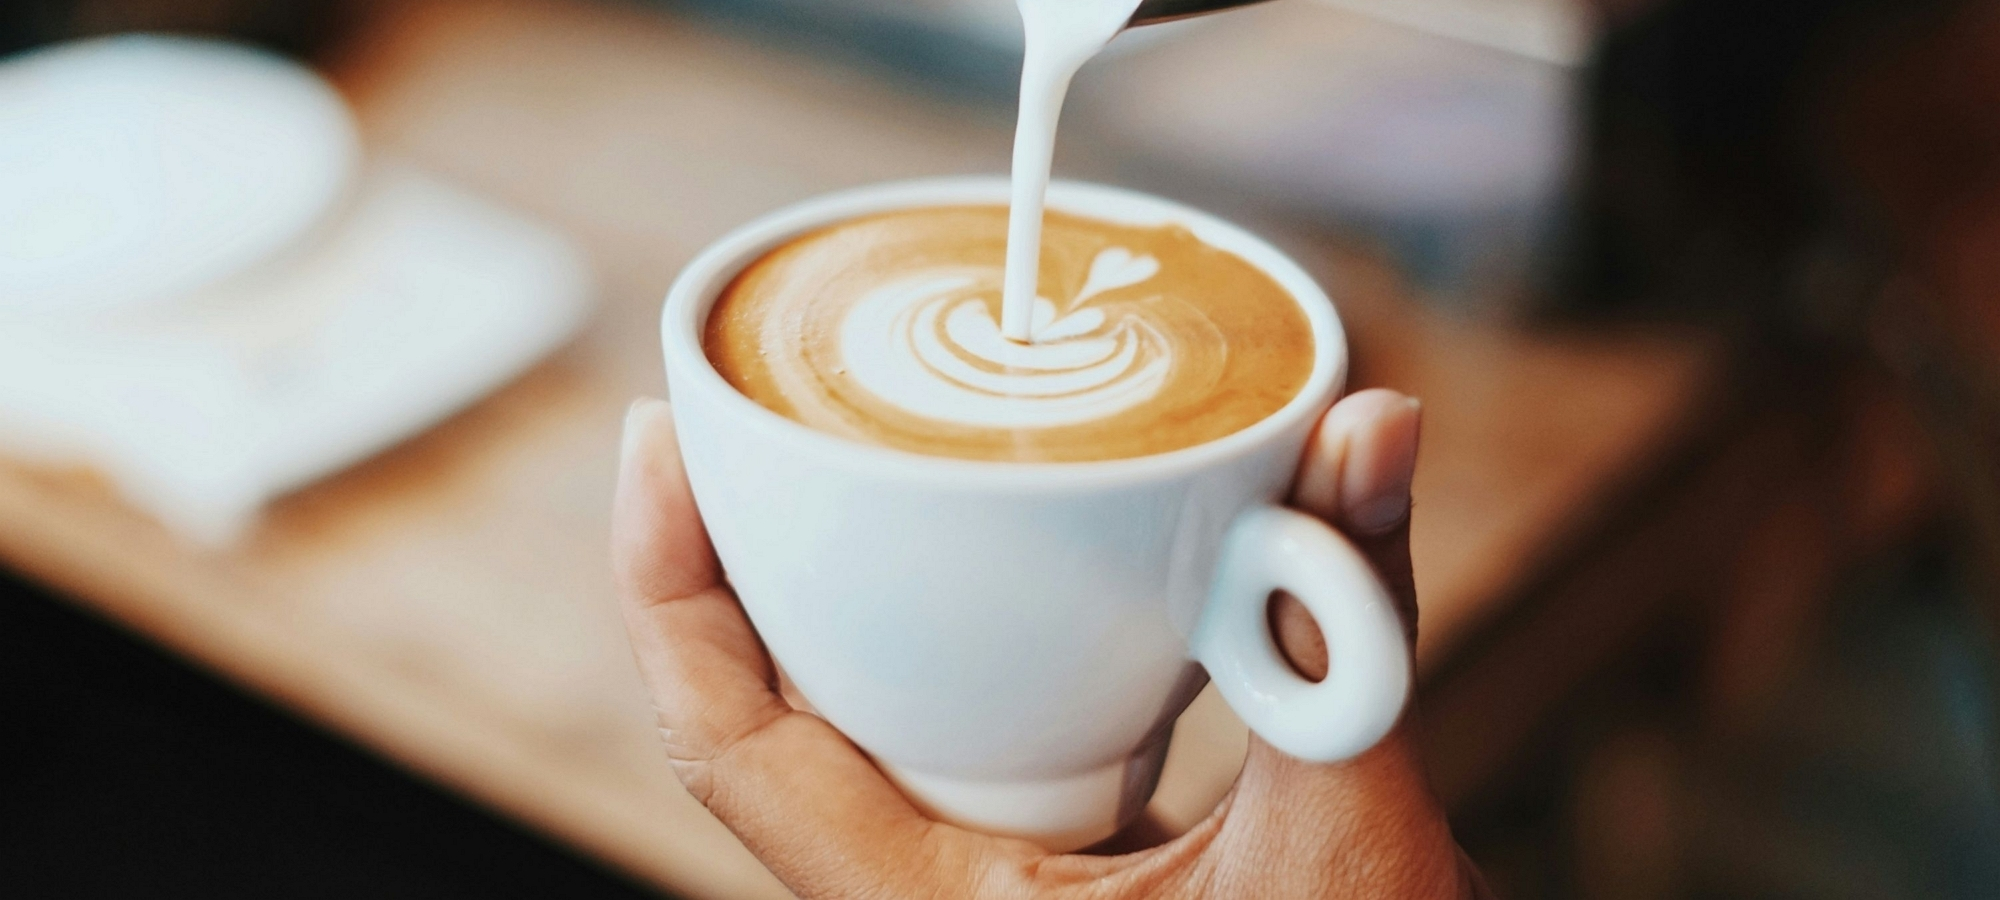
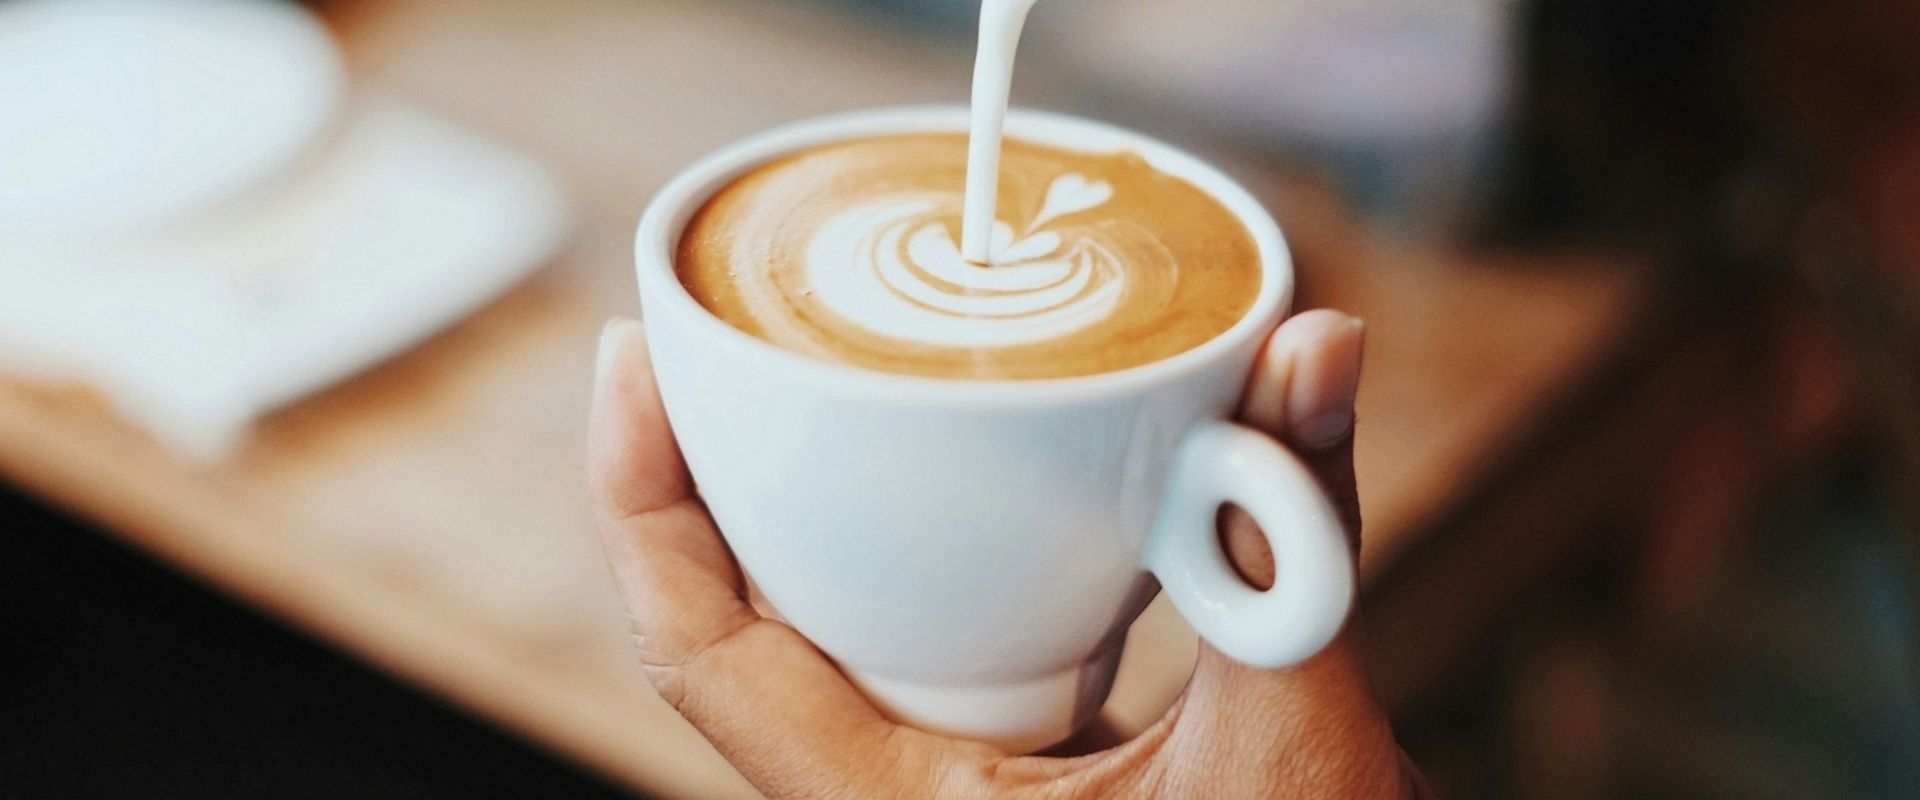
修改首頁大圖區

diff --git a/src/components/front/SlideShow.vue b/src/components/front/SlideShow.vue
@@ -1,35 +1,39 @@
 <template>
   <div
     id="myCarousel"
-    class="carousel slide carousel-fade fadeIn"
+    class="carousel slide carousel-fade fadeIn position-absolute top-0 start-0"
     data-bs-ride="carousel"
     ref="carouselEl"
     style="overflow: hidden"
   >
     <div class="carousel-inner extend-box">
-      <div class="carousel-item position-relative active">
-        <span class="position-absolute vertical-word text-white fw-bold text-shadow">
-          一份工作，靠咖啡因再加油
-        </span>
-        <img src="../../assets/banners/show-banner01.jpg" class="d-block w-100" alt="一份工作，靠咖啡因再加油" />
+      <div class="carousel-item active">
+        <img
+          src="../../assets/banners/show-banner01.jpg"
+          class="d-block w-100"
+          alt="一份工作，靠咖啡因再加油"
+        />
       </div>
-      <div class="carousel-item position-relative">
-        <span class="position-absolute vertical-word text-white fw-bold text-shadow">
-          一日生活，從一杯咖啡開始
-        </span>
-        <img src="../../assets/banners/show-banner02.jpg" class="d-block w-100" alt="一日生活，從一杯咖啡開始" />
+      <div class="carousel-item">
+        <img
+          src="../../assets/banners/show-banner02.jpg"
+          class="d-block w-100"
+          alt="一日生活，從一杯咖啡開始"
+        />
       </div>
-      <div class="carousel-item position-relative">
-        <span class="position-absolute vertical-word text-white fw-bold text-shadow">
-          一杯好茶，讓您放鬆身心靈
-        </span>
-        <img src="../../assets/banners/show-banner03.jpg" class="d-block w-100" alt="一杯好茶，讓您放鬆身心靈" />
+      <div class="carousel-item">
+        <img
+          src="../../assets/banners/show-banner03.jpg"
+          class="d-block w-100"
+          alt="一杯好茶，讓您放鬆身心靈"
+        />
       </div>
-      <div class="carousel-item position-relative">
-        <span class="position-absolute vertical-word text-white fw-bold text-shadow">
-          一包茶包，也可以喝出樂趣
-        </span>
-        <img src="../../assets/banners/show-banner04.jpg" class="d-block w-100" alt="一包茶包，也可以喝出樂趣" />
+      <div class="carousel-item">
+        <img
+          src="../../assets/banners/show-banner04.jpg"
+          class="d-block w-100"
+          alt="一包茶包，也可以喝出樂趣"
+        />
       </div>
     </div>
   </div>
